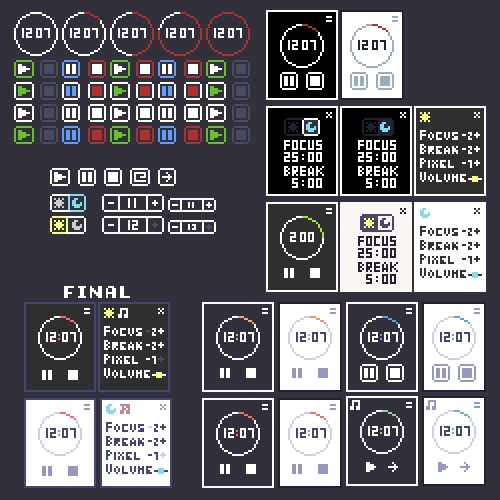
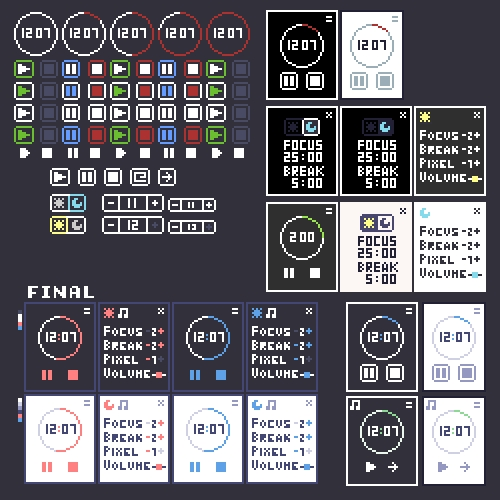
feat: updated ui and theme, also updated concept

diff --git a/src/components/Controls.tsx b/src/components/Controls.tsx
@@ -7,7 +7,8 @@ import {
   skipIconPixelPositions,
   stopIconPixelPositions,
 } from "../constants";
-import { usePixelSize } from "../hooks";
+import { useAppSelector, usePixelSize } from "../hooks";
+import { selectTimer } from "../features/timer/timerSlice";
 
 const ControlsBase = styled.div<{ pixelSize: number }>`
   display: flex;
@@ -28,24 +29,32 @@ function Controls({
   handleTimerStop,
   handleTimerEnd,
   handleTimerToggle,
-  ...props
 }: ControlsProps) {
   const { pixelSize } = usePixelSize();
   const theme = useTheme();
+  const { status } = useAppSelector(selectTimer);
   return (
     <ControlsBase pixelSize={pixelSize}>
       {running ? (
         <Button handleClick={handleTimerToggle} noBorder>
           <PixelIcon
             pixelPositions={pauseIconPixelPositions}
-            color={theme.color?.button}
+            color={
+              status === "pomodoro"
+                ? theme.color?.primary
+                : theme.color?.secondary
+            }
           />
         </Button>
       ) : (
         <Button handleClick={handleTimerToggle} noBorder>
           <PixelIcon
             pixelPositions={playIconPixelPositions}
-            color={theme.color?.button}
+            color={
+              status === "pomodoro"
+                ? theme.color?.primary
+                : theme.color?.secondary
+            }
           />
         </Button>
       )}
@@ -53,14 +62,22 @@ function Controls({
         <Button handleClick={handleTimerStop} noBorder>
           <PixelIcon
             pixelPositions={stopIconPixelPositions}
-            color={theme.color?.button}
+            color={
+              status === "pomodoro"
+                ? theme.color?.primary
+                : theme.color?.secondary
+            }
           />
         </Button>
       ) : (
         <Button handleClick={handleTimerEnd} noBorder>
           <PixelIcon
             pixelPositions={skipIconPixelPositions}
-            color={theme.color?.button}
+            color={
+              status === "pomodoro"
+                ? theme.color?.primary
+                : theme.color?.secondary
+            }
           />
         </Button>
       )}

diff --git a/src/components/QuantityInput.tsx b/src/components/QuantityInput.tsx
@@ -2,8 +2,9 @@ import styled, { useTheme } from "styled-components";
 import { minusIconPixelPositions, plusIconPixelPositions } from "../constants";
 import Button from "./Button";
 import PixelIcon from "./PixelIcon";
-import { usePixelSize } from "../hooks";
+import { useAppSelector, usePixelSize } from "../hooks";
 import { useEffect, useState } from "react";
+import { selectTimer } from "../features/timer/timerSlice";
 
 const QuantityInputBase = styled.div`
   display: flex;
@@ -15,7 +16,7 @@ const QuantityInputElement = styled.input<{
   numberLength: number;
 }>`
   max-width: ${({ pixelSize, numberLength }) => pixelSize * 4 * numberLength}px;
-  min-width: ${({ pixelSize, numberLength }) => pixelSize * 4 * 2}px;
+  min-width: ${({ pixelSize }) => pixelSize * 4 * 2}px;
   background: transparent;
   border: none;
   ${({ noBorder, pixelSize }) =>
@@ -55,6 +56,7 @@ function QuantityInput({
   const [atMaximum, setAtMaximum] = useState(false);
   const { pixelSize } = usePixelSize();
   const theme = useTheme();
+  const { status } = useAppSelector(selectTimer);
 
   useEffect(() => {
     if (value === min) {
@@ -103,7 +105,13 @@ function QuantityInput({
       >
         <PixelIcon
           pixelPositions={minusIconPixelPositions}
-          color={atMininum ? theme.color?.disabled : theme.color?.button}
+          color={
+            atMininum
+              ? theme.color?.disabled
+              : status === "pomodoro"
+              ? theme.color?.primary
+              : theme.color?.secondary
+          }
         />
       </Button>
       <QuantityInputElement
@@ -123,7 +131,13 @@ function QuantityInput({
       >
         <PixelIcon
           pixelPositions={plusIconPixelPositions}
-          color={atMaximum ? theme.color?.disabled : theme.color?.button}
+          color={
+            atMaximum
+              ? theme.color?.disabled
+              : status === "pomodoro"
+              ? theme.color?.primary
+              : theme.color?.secondary
+          }
         />
       </Button>
     </QuantityInputBase>

diff --git a/src/components/ThemeSwitcher.tsx b/src/components/ThemeSwitcher.tsx
@@ -7,11 +7,13 @@ import {
 import { useAppDispatch, useAppSelector } from "../hooks";
 import Button from "./Button";
 import PixelIcon from "./PixelIcon";
+import { selectTimer } from "../features/timer/timerSlice";
 
 function ThemeSwitcher() {
   const { theme } = useAppSelector(selectAppSettings);
   const dispatch = useAppDispatch();
   const styledTheme = useTheme();
+  const { status } = useAppSelector(selectTimer);
 
   return (
     <>
@@ -19,7 +21,11 @@ function ThemeSwitcher() {
         <Button handleClick={() => dispatch(setTheme("light"))} noBorder>
           <PixelIcon
             pixelPositions={sunIconPixelPositions}
-            color={styledTheme.color?.sunColor}
+            color={
+              status === "pomodoro"
+                ? styledTheme.color?.primary
+                : styledTheme.color?.secondary
+            }
           />
         </Button>
       )}
@@ -27,7 +33,11 @@ function ThemeSwitcher() {
         <Button handleClick={() => dispatch(setTheme("dark"))} noBorder>
           <PixelIcon
             pixelPositions={moonIconPixelPositions}
-            color={styledTheme.color?.moonColor}
+            color={
+              status === "pomodoro"
+                ? styledTheme.color?.primary
+                : styledTheme.color?.secondary
+            }
           />
         </Button>
       )}

diff --git a/src/components/AudioVolumeSlider.tsx b/src/components/AudioVolumeSlider.tsx
@@ -3,7 +3,13 @@ import {
   selectAppSettings,
   setVolume,
 } from "../features/appSettings/appSettingsSlice";
-import { useAppDispatch, useAppSelector, usePixelSize } from "../hooks";
+import {
+  useAppDispatch,
+  useAppSelector,
+  usePixelSize,
+  useTimer,
+} from "../hooks";
+import { selectTimer } from "../features/timer/timerSlice";
 
 const Slider = styled.input<{ pixelSize: number; thumbColor?: string }>`
   -webkit-appearance: none;
@@ -39,6 +45,7 @@ function AudioVolumeSlider() {
   const { audioVolume, theme } = useAppSelector(selectAppSettings);
   const dispatch = useAppDispatch();
   const styledTheme = useTheme();
+  const { status } = useAppSelector(selectTimer);
 
   return (
     <Slider
@@ -49,9 +56,9 @@ function AudioVolumeSlider() {
       value={audioVolume * 100}
       onChange={(e) => dispatch(setVolume(+e.target.value / 100))}
       thumbColor={
-        theme === "dark"
-          ? styledTheme.color?.sunColor
-          : styledTheme.color?.moonColor
+        status === "pomodoro"
+          ? styledTheme.color?.primary
+          : styledTheme.color?.secondary
       }
     />
   );

diff --git a/src/theme.ts b/src/theme.ts
@@ -1,27 +1,23 @@
 import { ThemeColors, Themes, Theme } from "./types/themeTypes";
 
 const darkThemeColors: ThemeColors = {
-  primary: "#f27474",
-  secondary: "#5fc9e7",
+  primary: "#ff8080",
+  secondary: "#5fa1e7",
   border: "#fff",
   text: "#fff",
-  background: "#2f2f2f",
+  background: "#32313b",
   button: "#fff",
   disabled: "#494b65",
-  moonColor: "#85daeb",
-  sunColor: "#fdfe89",
 };
 
 const lightThemeColors: ThemeColors = {
-  primary: "#f27474",
+  primary: "#ff8080",
   secondary: "#5fa1e7",
   border: "#cfd0e3",
   text: "#444774",
   background: "#fff",
   button: "#9598c1",
   disabled: "#cfd0e3",
-  moonColor: "#85daeb",
-  sunColor: "#fdfe89",
 };
 
 const defaultTheme: Theme = {};

diff --git a/src/components/SettingsMenu.tsx b/src/components/SettingsMenu.tsx
@@ -17,6 +17,7 @@ import QuantityInput from "./QuantityInput";
 import { setPixelSize } from "../features/appSettings/appSettingsSlice";
 import Container from "./Container";
 import SettingsGroup from "./SettingsGroup";
+import MusicSwitcher from "./MusicSwitcher";
 
 const SettingsMenuOverlay = styled.div<{ pixelSize: number }>`
   background: ${({ theme }) => theme.color?.background};
@@ -69,6 +70,7 @@ function SettingsMenu({}: SettingsMenuProps) {
           <Container>
             <SettingsGroup direction="horizontal">
               <ThemeSwitcher />
+              <MusicSwitcher />
             </SettingsGroup>
 
             <SettingsGroup>

diff --git a/src/constants.ts b/src/constants.ts
@@ -215,3 +215,34 @@ export const plusIconPixelPositions = [
   [2, 1],
   [1, 2],
 ];
+
+export const notesIconPixelPositions = [
+  [1, 0],
+  [2, 0],
+  [3, 0],
+  [4, 0],
+  [1, 1],
+  [4, 1],
+  [1, 2],
+  [4, 2],
+  [0, 3],
+  [1, 3],
+  [3, 3],
+  [4, 3],
+  [0, 4],
+  [1, 4],
+  [3, 4],
+  [4, 4],
+];
+
+export const crossIconPixelPositions = [
+  [0, 0],
+  [4, 0],
+  [1, 1],
+  [3, 1],
+  [2, 2],
+  [1, 3],
+  [3, 3],
+  [0, 4],
+  [4, 4],
+];

diff --git a/src/types/themeTypes.ts b/src/types/themeTypes.ts
@@ -11,8 +11,6 @@ export interface ThemeColors {
   background?: string;
   button?: string;
   disabled?: string;
-  moonColor?: string;
-  sunColor?: string;
 }
 
 export type ThemeType = "dark" | "light";
